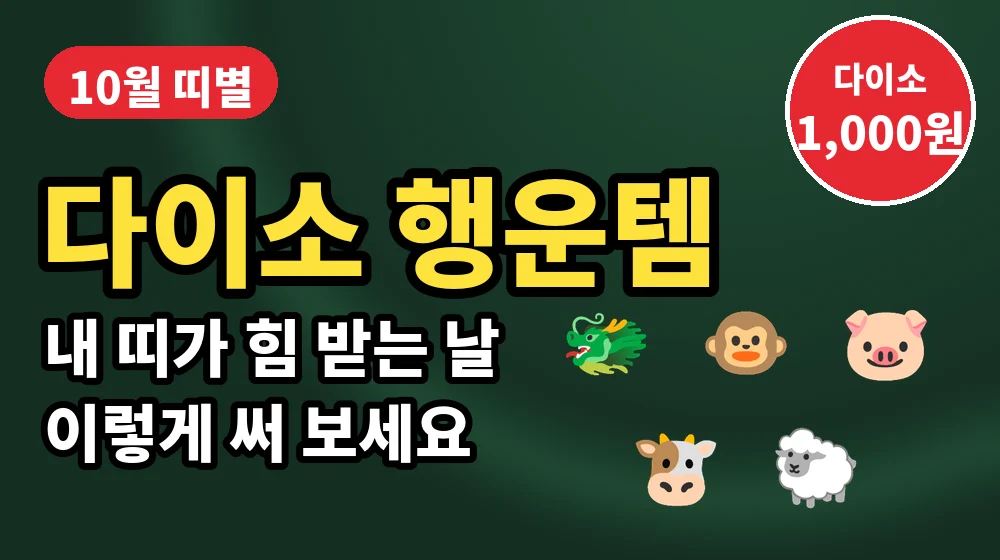
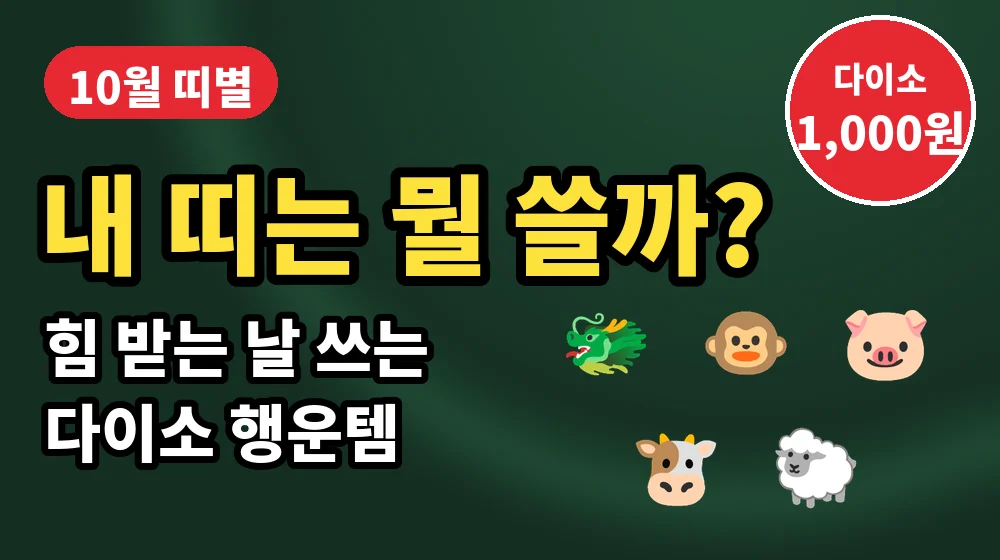
/go 문구 질문형으로, 관계(#rel)·궁합(#match) 무료 입구 추가
Claude-Session: https://claude.ai/code/session_0121rW3WwMGdfyBenDuDhd5U

Changed region(s): [[0.031, 0.2732, 0.775, 0.85]]

diff --git a/go.html b/go.html
@@ -39,12 +39,13 @@ footer{margin-top:26px;font-size:12px;color:var(--sub);text-align:center}
   <h1>내 운 사용설명서</h1>
   <p>생년월일만 넣으면 10초 만에 확인해요</p>
  </div>
- <a class="feat" href="/luckyitem?utm_source=ig_profile&utm_content=lucky"><img src="img/go-lucky.webp" alt="10월 띠별 다이소 행운템"><span>🍀 내 띠 행운템, 힘 받는 날 확인하기</span></a>
- <a class="feat" href="/rich?utm_source=ig_profile&utm_content=rich"><img src="img/go-rich.webp" alt="부자 사주 확인" loading="lazy"><span>💰 내 사주에 돈 들어올 자리 있을까?</span></a>
- <a class="row" href="/love?utm_source=ig_profile&utm_content=love"><img class="th" src="chars/seonhwa.webp" alt=""><b>이성 인연이 열리는 달은 언제?</b></a>
- <a class="row" href="/#match"><span class="th">🤝</span><b>그 사람과 나, 사주 궁합 보기</b></a>
- <a class="row" href="/work?utm_source=ig_profile&utm_content=work"><img class="th" src="chars/doyun.webp" alt=""><b>지금 옮겨도 될까? 일·퇴사 사주</b></a>
- <a class="row" href="/?utm_source=ig_profile&utm_content=home"><img class="th" src="chars/hawon.webp" alt=""><b>사주 × MBTI 무료 6카드 전체 보기</b></a>
+ <a class="feat" href="/luckyitem?utm_source=ig_profile&utm_content=lucky"><img src="img/go-lucky.webp?v=2" alt="10월 띠별 다이소 행운템"><span>🍀 10월, 내 띠 힘 받는 날은 언제?</span></a>
+ <a class="feat" href="/rich?utm_source=ig_profile&utm_content=rich"><img src="img/go-rich.webp?v=2" alt="내 사주 돈 들어올 자리" loading="lazy"><span>💰 같은 월급인데 왜 나만 안 모일까?</span></a>
+ <a class="row" href="/?utm_source=ig_profile&utm_content=rel#rel"><img class="th" src="chars/hawon.webp" alt=""><b>나는 왜 사람한테 유독 지칠까?</b></a>
+ <a class="row" href="/?utm_source=ig_profile&utm_content=match#match"><span class="th">💞</span><b>그 사람이랑 나, 잘 맞을까?</b></a>
+ <a class="row" href="/love?utm_source=ig_profile&utm_content=love"><img class="th" src="chars/seonhwa.webp" alt=""><b>내 이성운이 열리는 달은?</b></a>
+ <a class="row" href="/work?utm_source=ig_profile&utm_content=work"><img class="th" src="chars/doyun.webp" alt=""><b>지금 그만둬도 괜찮을까?</b></a>
+ <a class="row" href="/?utm_source=ig_profile&utm_content=home"><span class="th">✨</span><b>내 성격·돈·연애, 6장으로 정리</b></a>
  <footer>입력한 정보는 이 기기 안에서만 계산해요 · <a href="policy.html#privacy" style="text-decoration:underline">개인정보처리방침</a></footer>
 </main>
 </body>

diff --git a/index.html b/index.html
@@ -1250,7 +1250,8 @@ async function start(){
   // 무료 카드 4종은 모두 미리 만든 조각을 조립한다(AI 호출 없음).
   ['P','A','B','M'].forEach(ensure);
   // 궁합 보기에서 내 정보를 먼저 넣으러 왔던 경우 → 상대 입력으로 이어간다
-  if(S.after==='match'){S.after=null;S.match.calc=null;go('matchInput')}}
+  if(S.after==='match'){S.after=null;S.match.calc=null;go('matchInput')}
+  else if(S.after==='rel'){S.after=null;relOpen()}}
 function ensure(g){const ready=true;if(ready&&(!S.ai[g]||(S.ai[g].error&&!S.ai[g].tried)))runAI(g)}
 
 function brief(){const D=S.data,c=D.chart,n=c.natal;
@@ -3226,6 +3227,11 @@ function matchPromo(){return `<button class="promo mpromo" onclick="matchOpen()"
 if(/^#match/.test(location.hash)&&!PAY_RETURN)READY.then(()=>matchOpen());
 // 주소 끝 #start — 부자 사주 확인 페이지 등에서 넘어올 때 바로 입력 화면(저장된 생년월일이 미리 채워짐)
 if(/^#start/.test(location.hash)&&!PAY_RETURN)READY.then(()=>go('input'));
+// 주소 끝 #rel — 관계 사용설명서 바로가기. 저장된 정보가 있으면 ① 무료 미리보기로, 없으면 입력 후 이어간다
+if(/^#rel/.test(location.hash)&&!PAY_RETURN)READY.then(()=>{const p=S.saved;
+  if(!p){S.after='rel';return go('input')}
+  S.input=p.input;S.mbti=p.mbti;try{S.data=makeData()}catch(e){S.after='rel';return go('input')}
+  relOpen()});
 
 
 function shareHTML(){const D=S.data,A=ok('P')?S.ai.P.profile:{},m=S.mbti;
